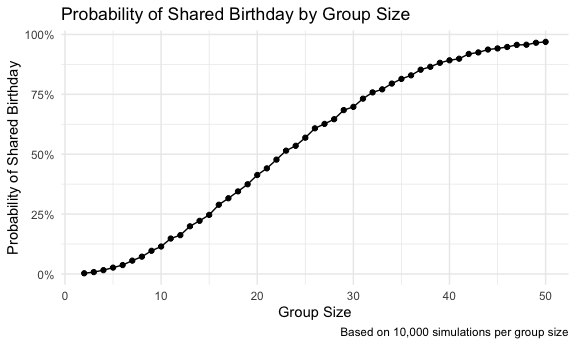
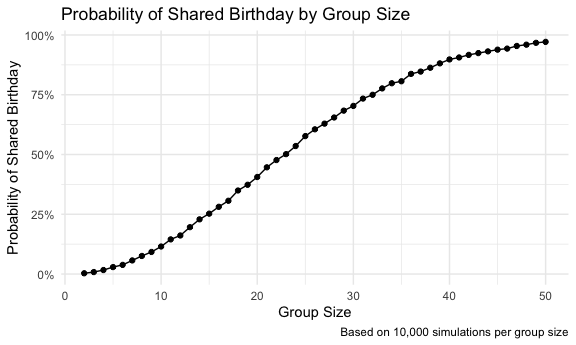
final version

diff --git a/p8105_hw5_rl3610.md b/p8105_hw5_rl3610.md
@@ -51,8 +51,7 @@ bday_sim_results |>
     y = "Probability of Shared Birthday",
     caption = "Based on 10,000 simulations per group size"
   ) +
-  scale_y_continuous(labels = scales::percent_format()) +
-  theme_minimal()
+  scale_y_continuous(labels = scales::percent_format())
 ```
 
 <img src="p8105_hw5_rl3610_files/figure-gfm/unnamed-chunk-4-1.png" width="90%" />
@@ -122,8 +121,7 @@ power1_summary_df |>
     y = "Power (Probability of Rejecting H0)",
     caption = "n = 30, σ = 5, α = 0.05, 5000 simulations per effect size"
   ) +
-  scale_y_continuous(labels = scales::percent_format()) +
-  theme_minimal()
+  scale_y_continuous(labels = scales::percent_format())
 ```
 
 <img src="p8105_hw5_rl3610_files/figure-gfm/unnamed-chunk-7-1.png" width="90%" />
@@ -133,14 +131,14 @@ power1_summary_df
 ```
 
     ## # A tibble: 7 × 2
-    ##   true_mu  power
-    ##     <int>  <dbl>
-    ## 1       0 0.0524
-    ## 2       1 0.192 
-    ## 3       2 0.558 
-    ## 4       3 0.887 
-    ## 5       4 0.988 
-    ## 6       5 0.999 
+    ##   true_mu power
+    ##     <int> <dbl>
+    ## 1       0 0.051
+    ## 2       1 0.183
+    ## 3       2 0.566
+    ## 4       3 0.891
+    ## 5       4 0.990
+    ## 6       5 1.000
     ## 7       6 1
 
 The simulation results demonstrate a strong positive association between
@@ -179,12 +177,11 @@ power2_summary_df |>
   geom_abline(slope = 1, intercept = 0, linetype = "dashed", alpha = 0.5) +
   labs(
     title = "Average Estimates vs. True Effect Size",
-    x = "True Effect Size (μ)",
-    y = "Average Estimate (μ̂)",
+    x = expression("True Effect Size ("*mu*")"),
+    y = expression("Average Estimate ("*hat(mu)*")"),
     color = "Sample Type",
     caption = "Dashed line represents perfect estimation (y = x)"
-  ) +
-  theme_minimal()
+  ) 
 ```
 
 <img src="p8105_hw5_rl3610_files/figure-gfm/unnamed-chunk-8-1.png" width="90%" />
@@ -196,19 +193,19 @@ power2_summary_df
     ## # A tibble: 7 × 3
     ##   true_mu avg_mu_hat avg_mu_hat_rejected
     ##     <int>      <dbl>               <dbl>
-    ## 1       0     0.0163               0.123
-    ## 2       1     1.01                 2.30 
-    ## 3       2     1.99                 2.61 
-    ## 4       3     3.00                 3.20 
-    ## 5       4     4.01                 4.04 
-    ## 6       5     5.01                 5.02 
+    ## 1       0     0.0150               0.192
+    ## 2       1     0.992                2.24 
+    ## 3       2     2.01                 2.62 
+    ## 4       3     3.00                 3.18 
+    ## 5       4     3.98                 4.01 
+    ## 6       5     4.98                 4.98 
     ## 7       6     5.99                 5.99
 
 No, the sample average of μ̂ across tests for which the null is rejected
 is not approximately equal to the true value of μ, especially for small
-effects. This overestimation occurs because we only reject the null
+effect sizes. This overestimation occurs because we only reject the null
 hypothesis when sampling variation produces unusually large estimates.
-The bias diminishes for larger true effects, where significance is
+The bias diminishes for larger true effect sizes, where significance is
 almost guaranteed.
 
 # Problem 3
@@ -289,9 +286,9 @@ prop_test("Baltimore, MD")
 all_cities_results = 
   city_summary |> 
   mutate(
-    prop_test_result = map2(unsolved_homicides, total_homicides, 
+    prop_test_result = purrr::map2(unsolved_homicides, total_homicides, 
                     ~prop.test(.x, .y)),
-    prop_test_tidy = map(prop_test_result, broom::tidy)
+    prop_test_tidy = purrr::map(prop_test_result, broom::tidy)
   ) |> 
   unnest(prop_test_tidy) |> 
   select(
@@ -332,7 +329,6 @@ city_plot =
     x = "Proportion Unsolved (with 95% CI)",
     y = "City"
   ) +
-  theme_minimal() + 
   theme(
     axis.text.y = element_text(size = 5, angle = 30),
     panel.grid.major.y = element_blank()
